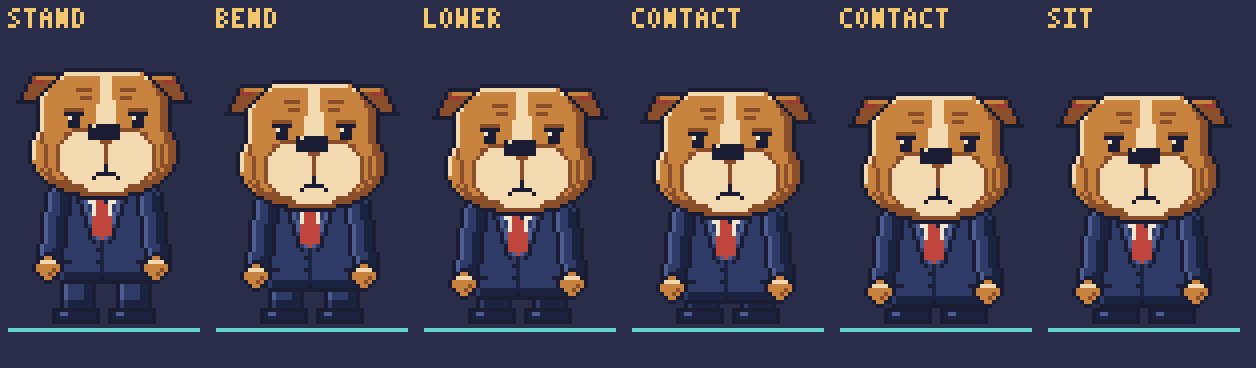
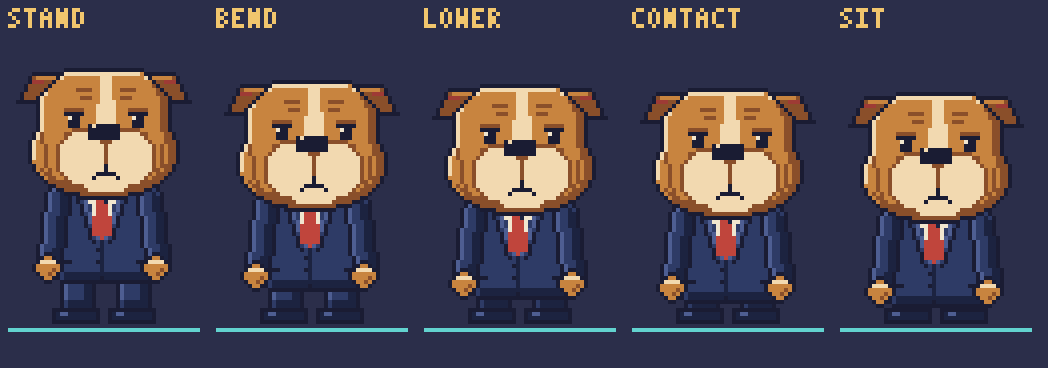
Fix NPC sit review sheet checkpoints

diff --git a/app/src/test/java/com/hoodie/app/pixel/review/NpcAnimationContactSheet.kt b/app/src/test/java/com/hoodie/app/pixel/review/NpcAnimationContactSheet.kt
@@ -49,8 +49,8 @@ object NpcAnimationContactSheet {
     }
 
     fun sit(style: CharacterStyle): PixelBuffer = timeline(
-        style, NpcAnimation.SIT, listOf(0, 160, 320, 480, 560, 640).map(Int::toLong),
-        listOf("STAND", "BEND", "LOWER", "CONTACT", "CONTACT", "SIT"),
+        style, NpcAnimation.SIT, listOf(0, 160, 320, 480, 640).map(Int::toLong),
+        listOf("STAND", "BEND", "LOWER", "CONTACT", "SIT"),
     )
 
     fun talk(style: CharacterStyle): PixelBuffer = timeline(
